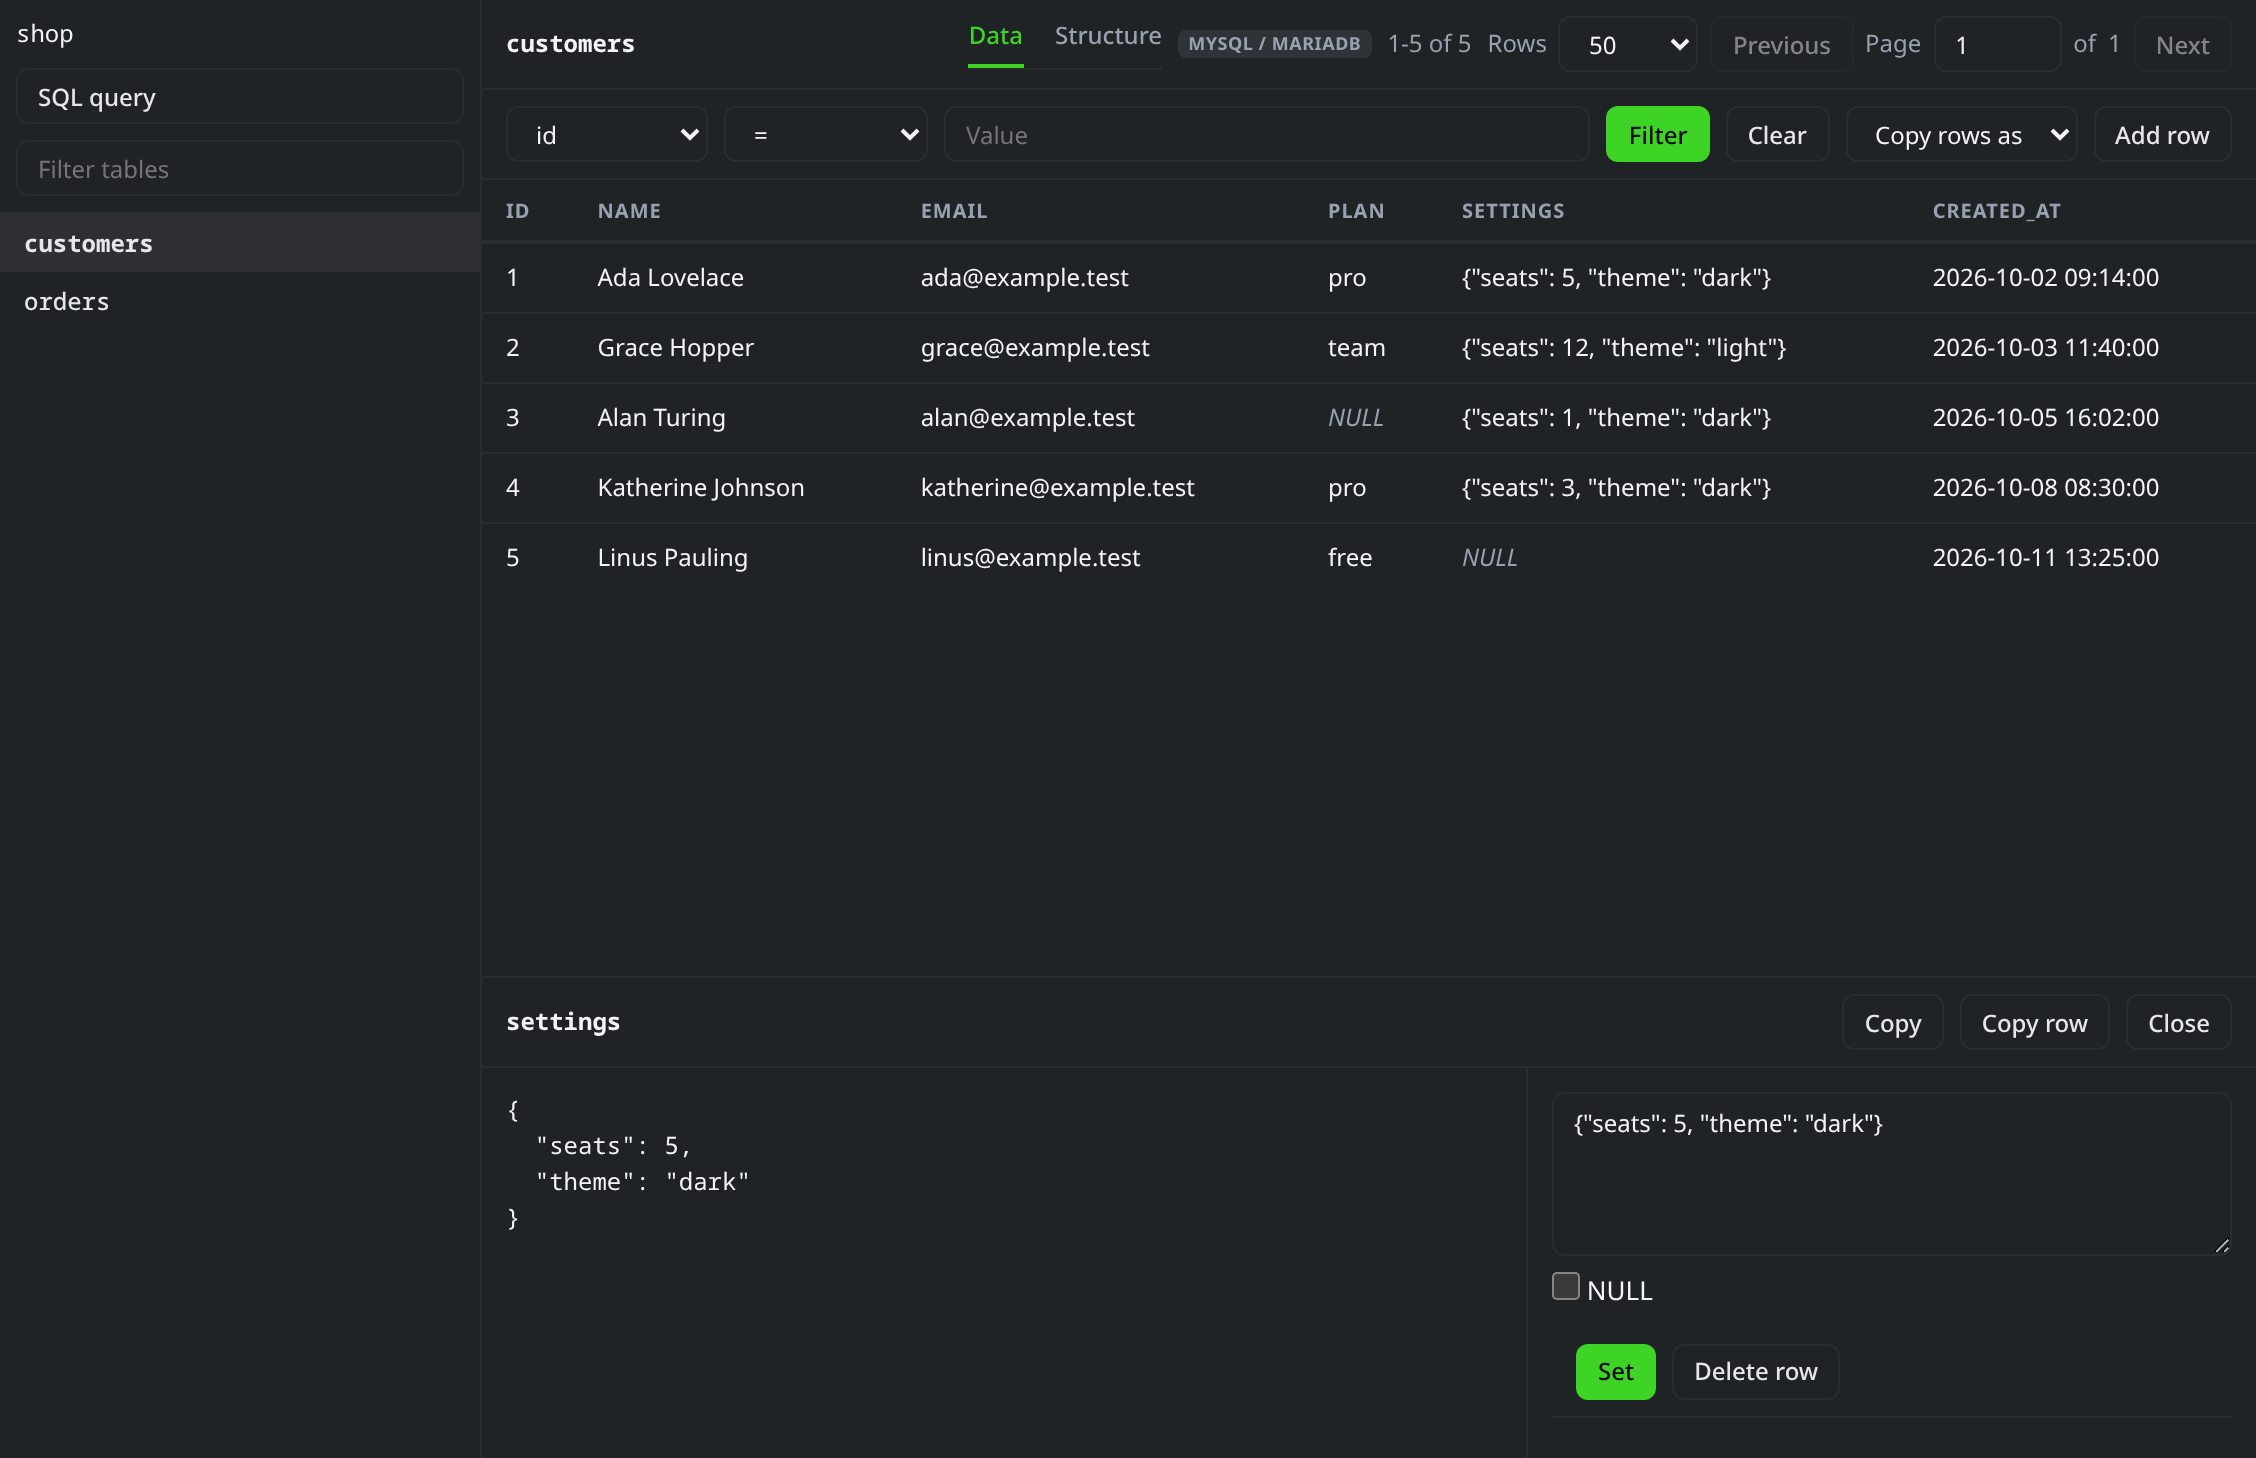
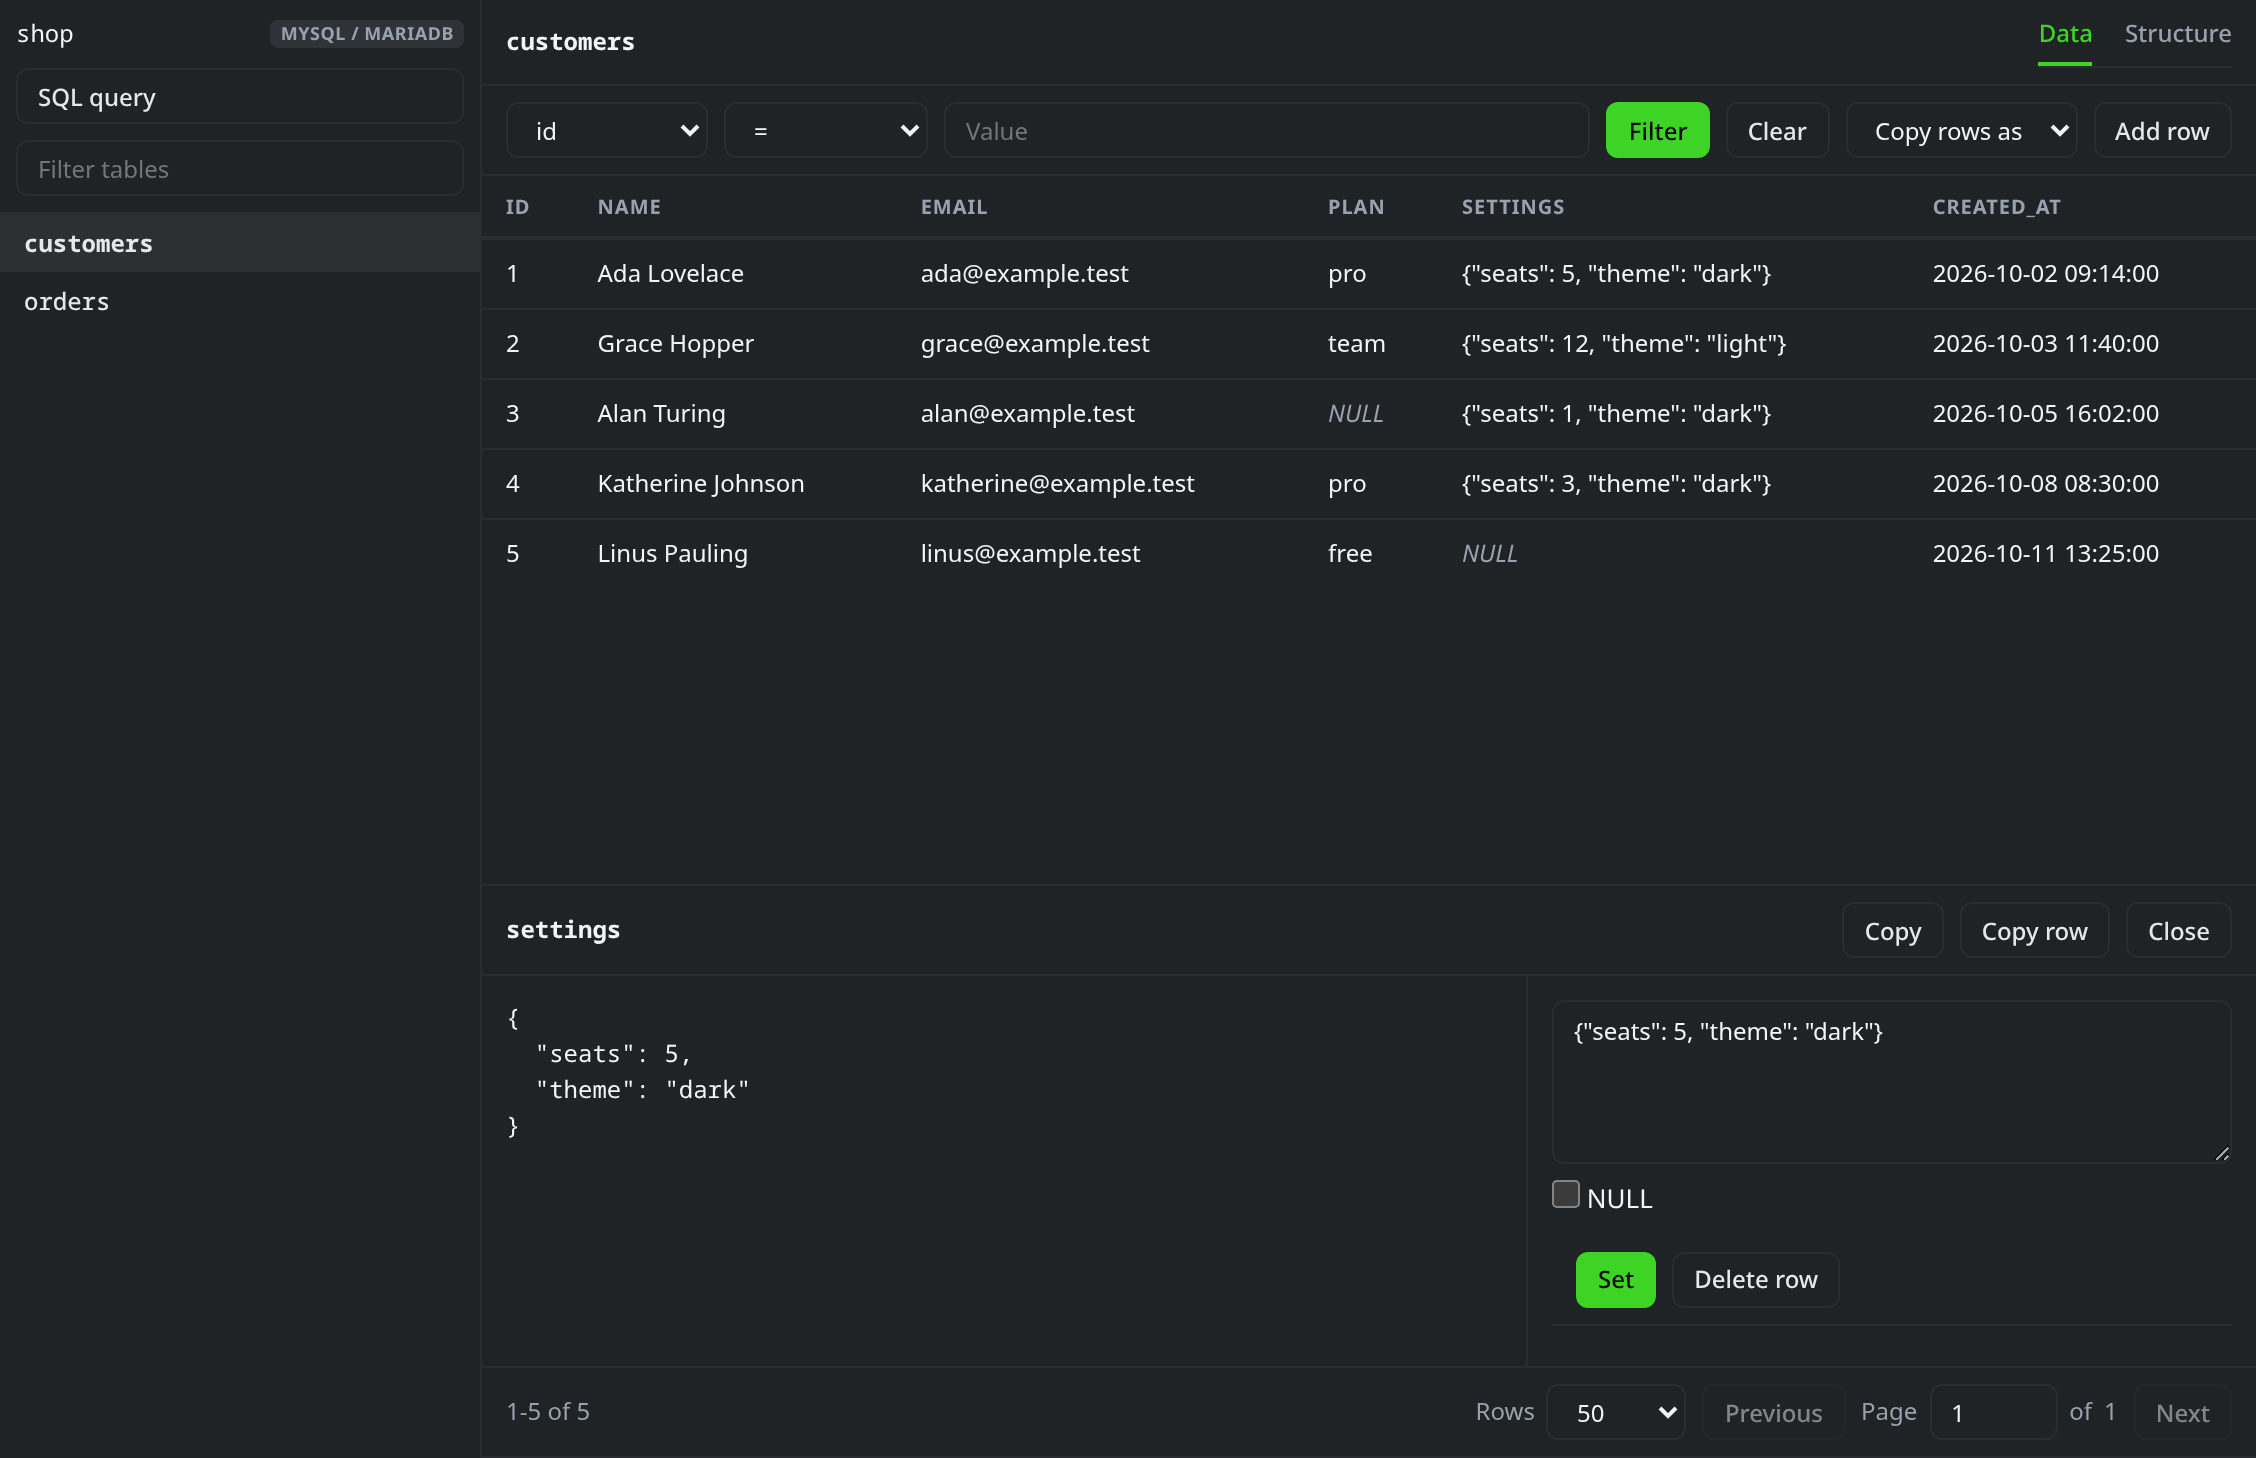
docs: screenshots of the current layout, and keep History narrow in the SQL bar

diff --git a/ui/site.html b/ui/site.html
@@ -40,7 +40,8 @@
     .query { flex: 1; min-width: 0; min-height: 0; display: flex; flex-direction: column; }
     .query textarea { margin: 12px 12px 0; resize: vertical; min-height: 80px; }
     .qbar { gap: 8px; padding: 8px 12px; border-bottom: 1px solid var(--lerd-line); }
-    .qbar #qmeta { flex: 1; min-width: 0; }
+    .qbar #history { flex: 0 1 240px; min-width: 0; }
+    .qbar #qmeta { flex: 1; min-width: 0; white-space: nowrap; overflow: hidden; text-overflow: ellipsis; }
     .qbar .lerd-tabs { margin: 0; }
     .qresult th { cursor: default; }
     .qresult pre { margin: 0; padding: 12px; white-space: pre; }
